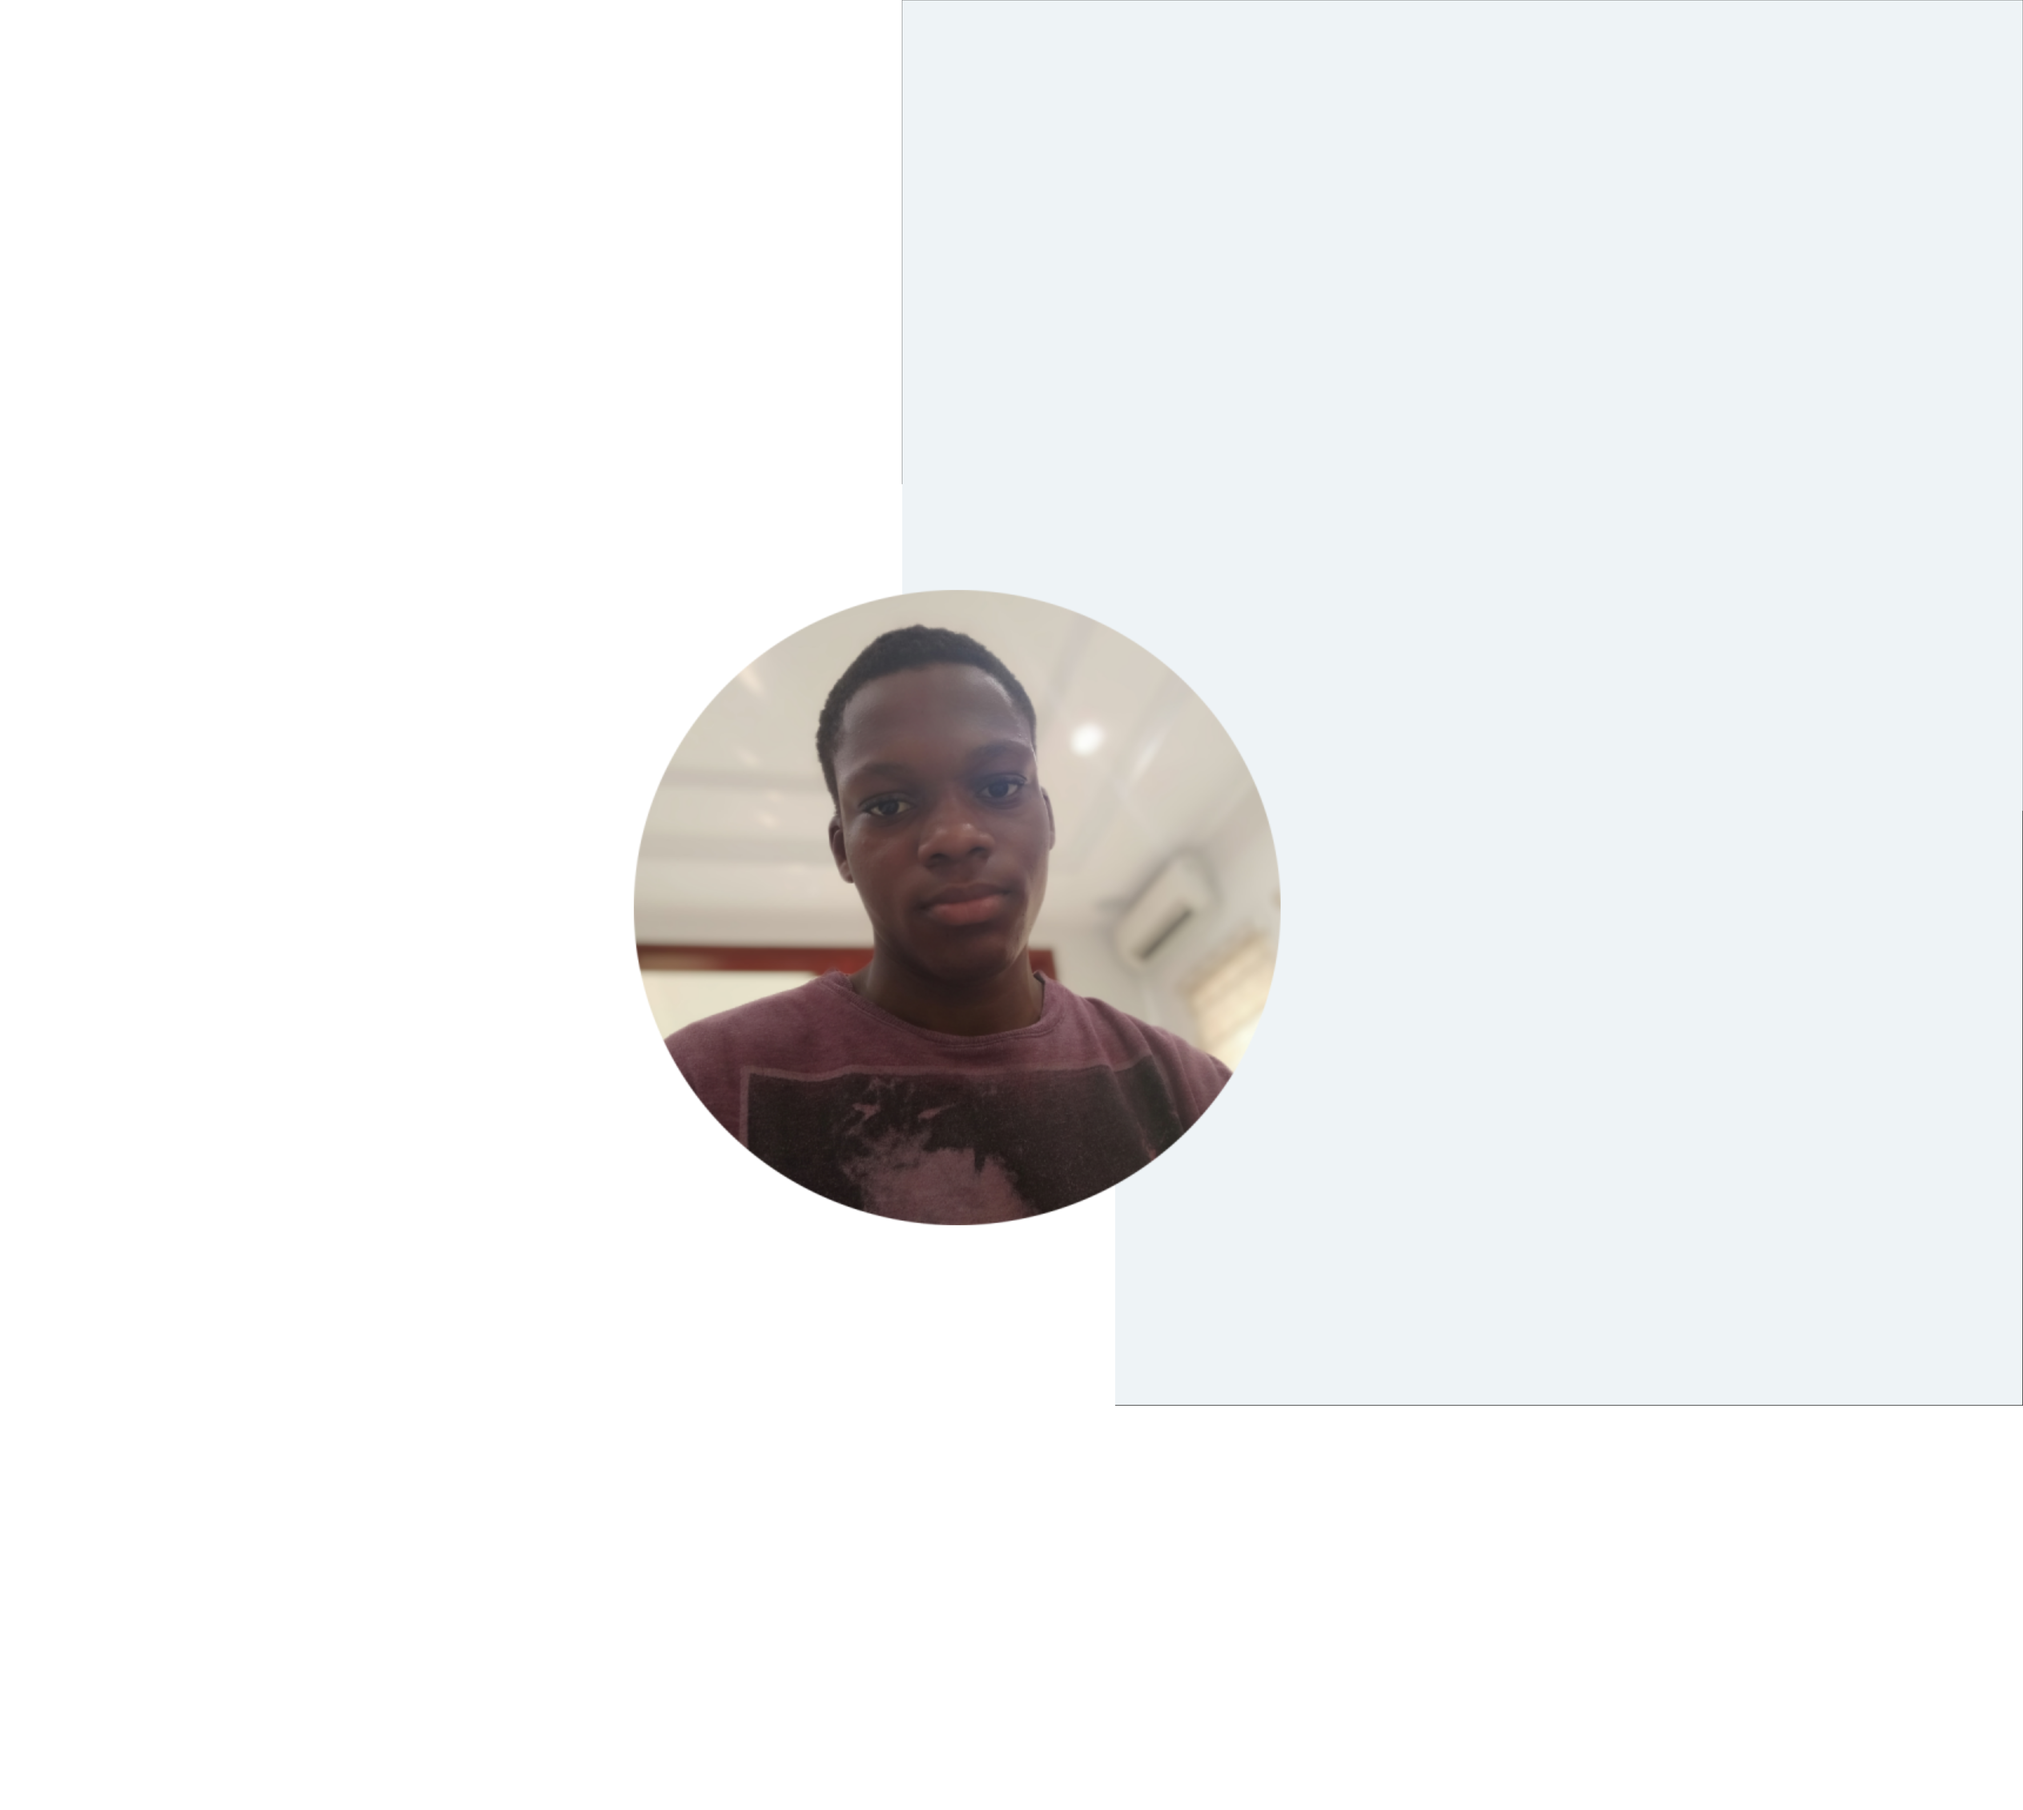
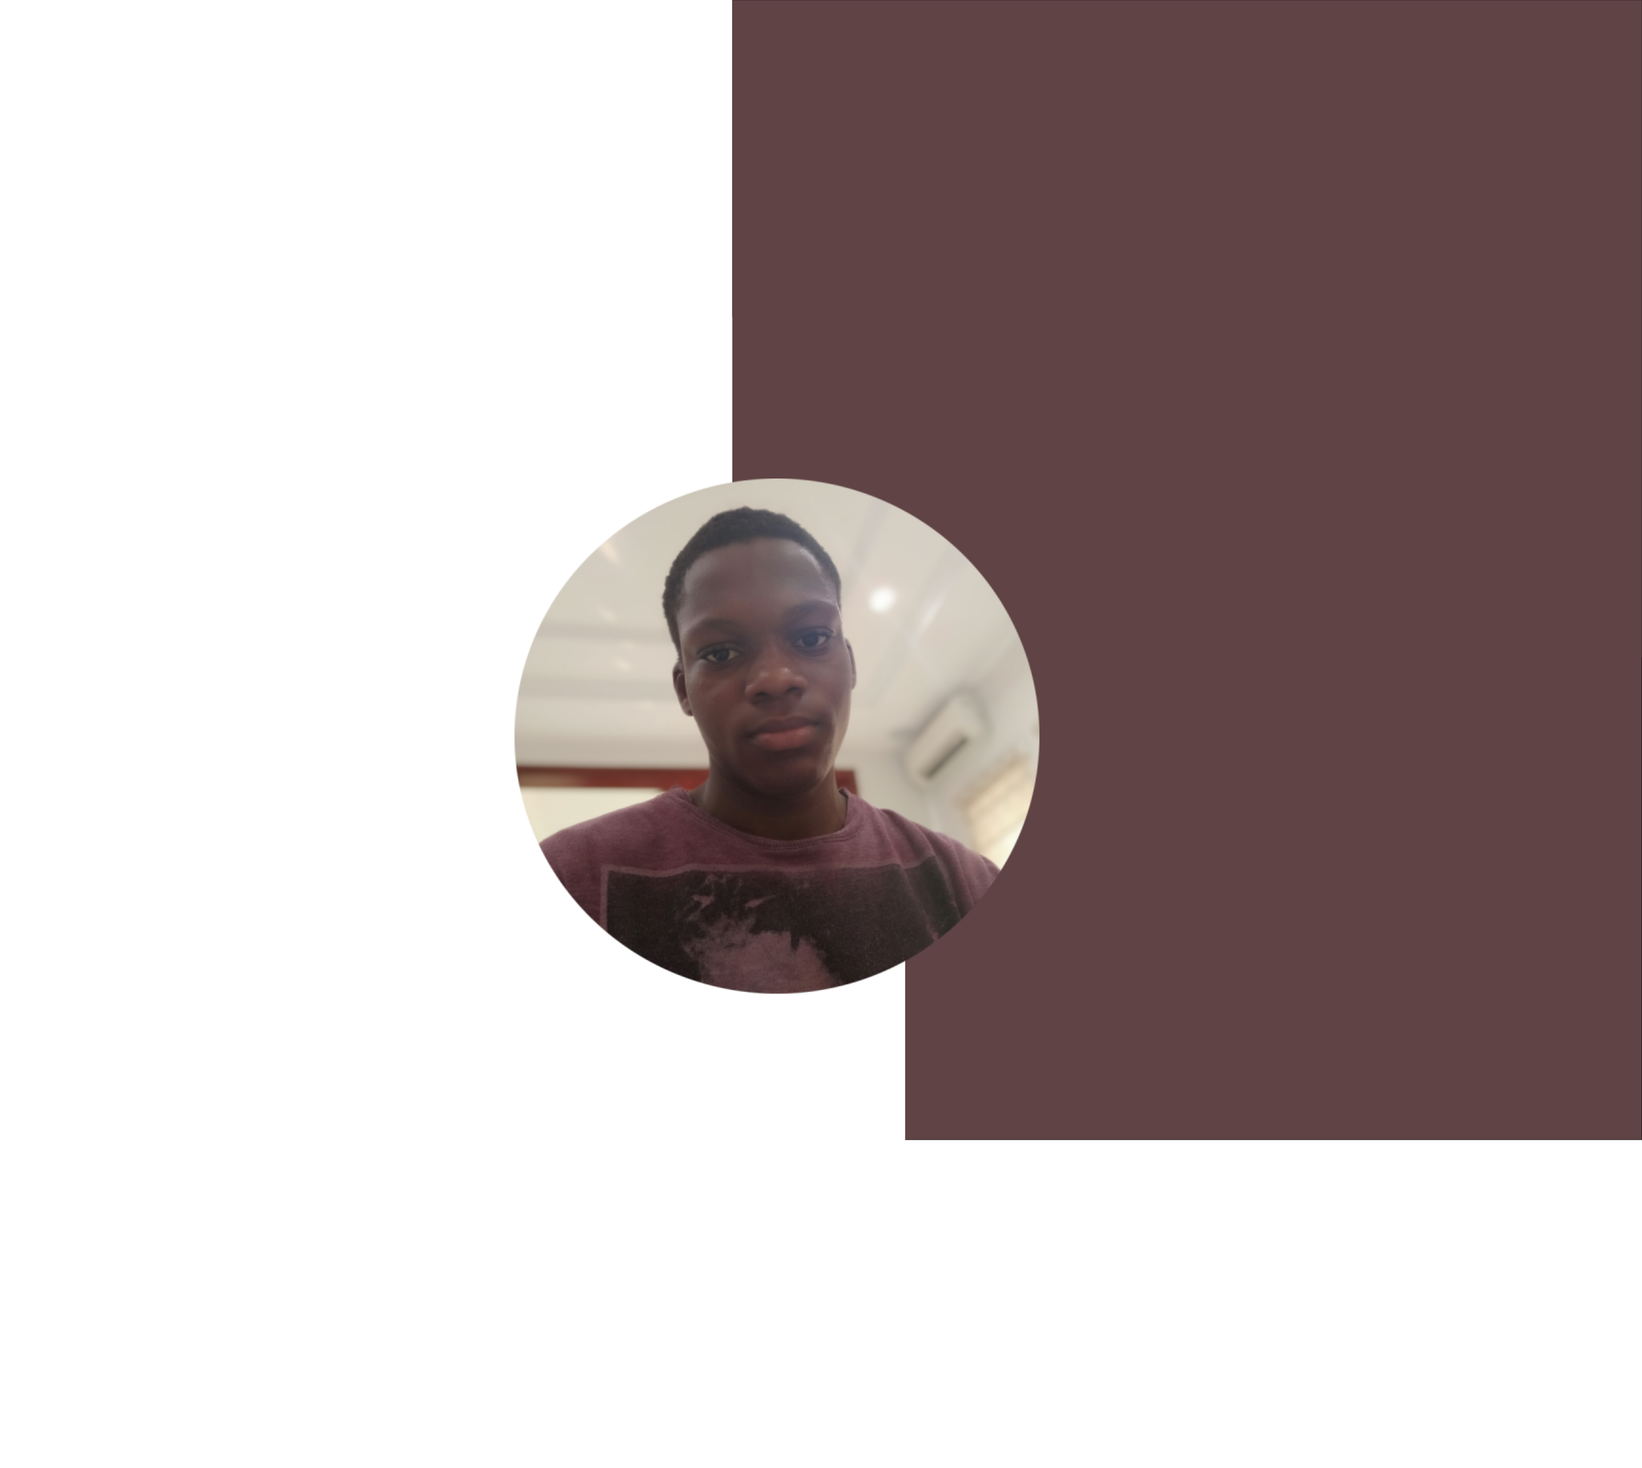
main page done

diff --git a/landingindex.css b/landingindex.css
@@ -84,9 +84,13 @@ div#main{
 .wow{
     width: 100%;
     height: 400px;
+    
+    background-image: url("./temp.png");
+    background-size: cover;
+    background-position: center;
+    background-repeat: no-repeat;
     /*background-color:rgb(255, 134, 134);
     */
-
     margin: 0 auto; /*important for centering*/
   /*  position: absolute;
     bottom: 50%;
@@ -94,8 +98,25 @@ div#main{
     transform: translate(-50%,50%); */
 }
 
+.me{
+    height: 400px;
+    width: 100%;
+
+    position: relative;
+    text-align: center;
+
+}
+
+.me0{
+    position: absolute;
+    top: 50%;
+    left: 50%;
+
+    transform: translate(-50%, -50%);
+}
+
 @media screen and (min-width:600px){
-    .wow{
+    .wow,.me{
          height: 800px;
      }
      
@@ -103,7 +124,7 @@ div#main{
 
 
 @media screen and (min-width:800px){
-    .wow{
+    .wow,.me{
         height: 900px;
        
     }
@@ -111,7 +132,7 @@ div#main{
 
 
 @media screen and (max-width:400px){
-   .wow{
+   .wow,.me{
        height:250px;
       
    }

diff --git a/index.html b/index.html
@@ -41,12 +41,13 @@
 
     <div id="main">
 
-        <img  class="wow" src="./moii.png" alt="">
-        <!--<div class= "wow">
+        <div  class="wow">
+         <!---->
+         <div class="me">
+             <img class="me0" src="./me0.png" alt="" width="20%">
+         </div> 
+        </div>
 
-           
-        </div>-->
-        
         
     </div>
         
